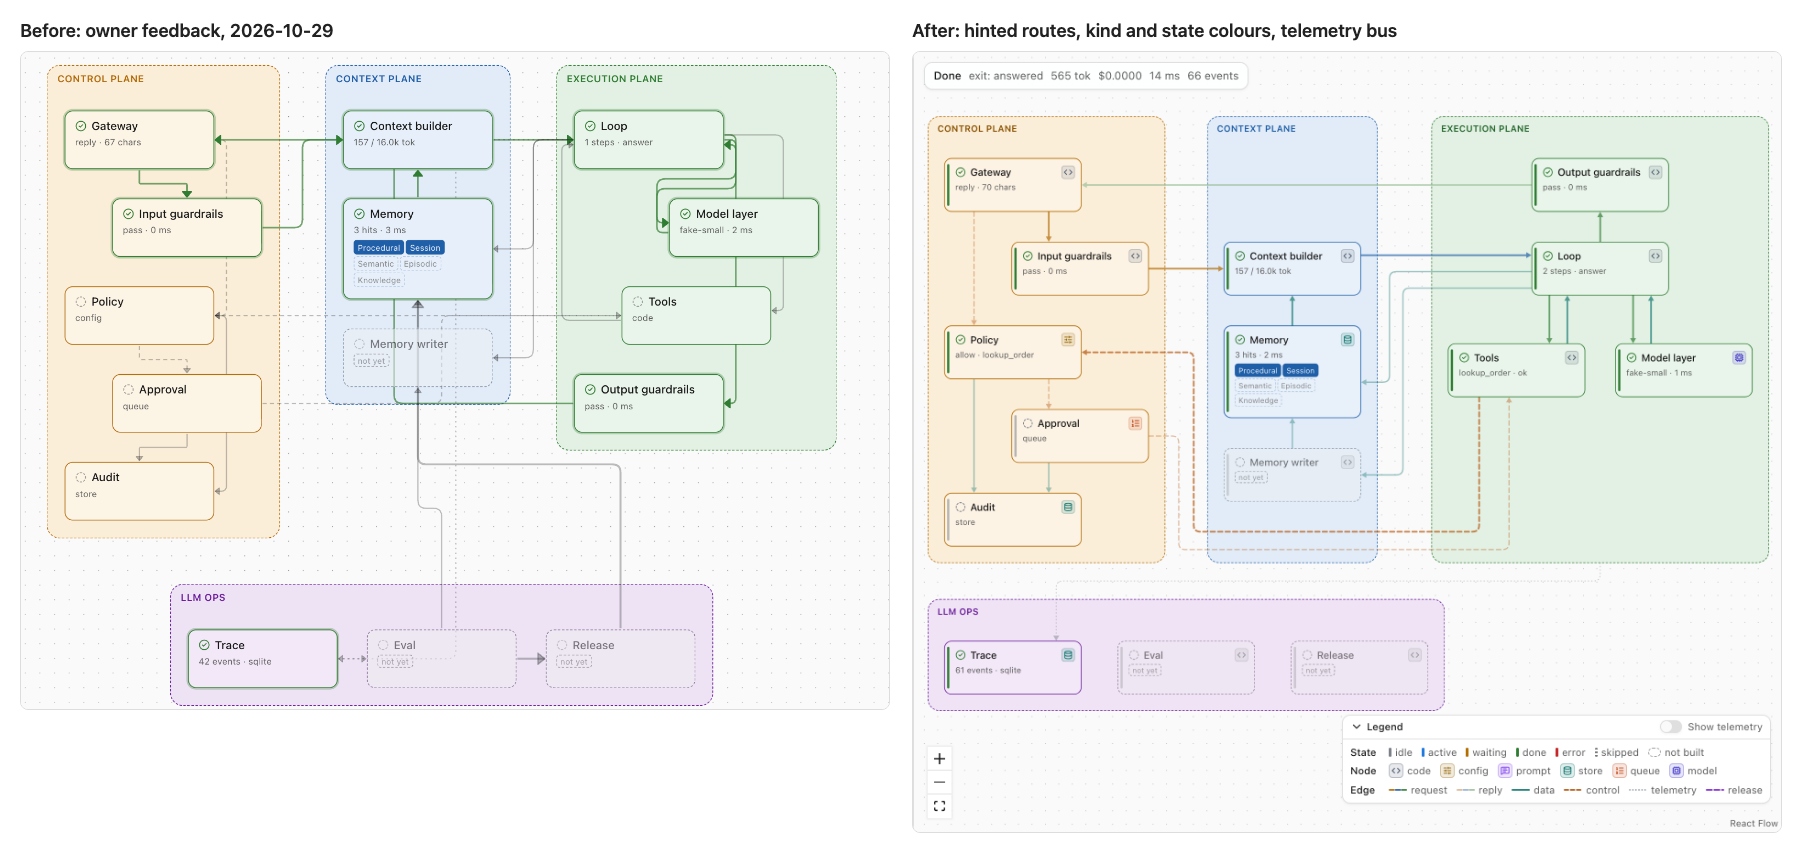
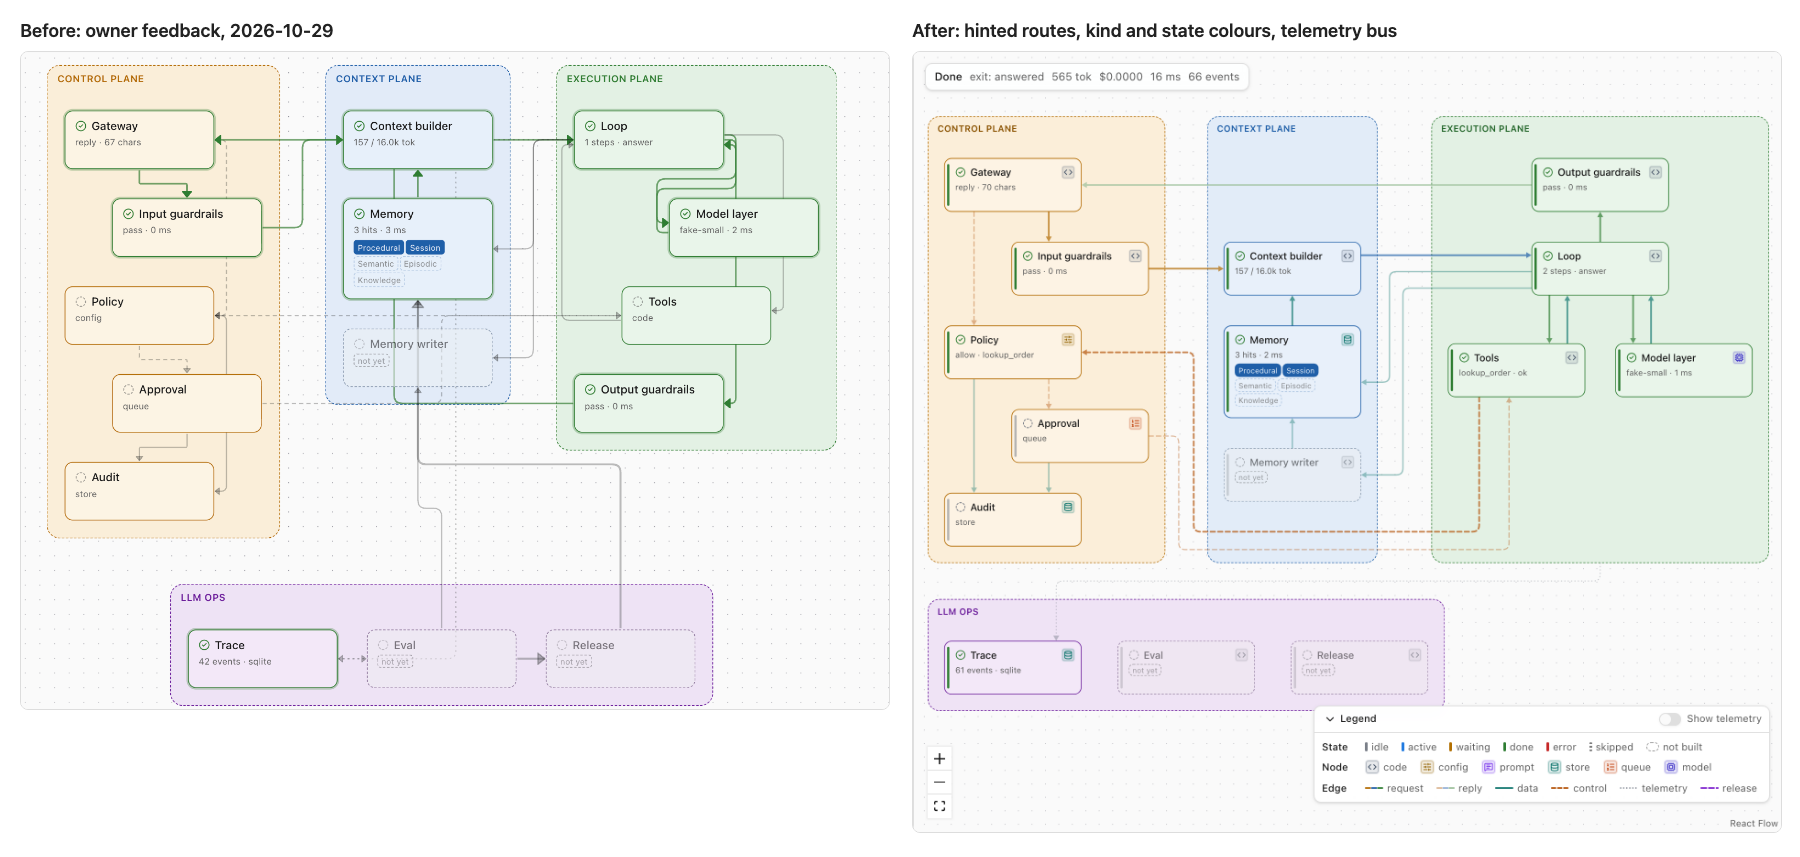
docs: refresh the screenshots for the shadcn UI
Recaptured from the live API with make screenshots. The inspector shot
now jumps to the Loop class so the highlighting shows, and the README
points New session at the session menu.

Changed region(s): [[0.7156, 0.8191, 0.9956, 0.9405], [0.5289, 0.0607, 0.6844, 0.091]]

diff --git a/web/e2e-live/screenshots.spec.ts b/web/e2e-live/screenshots.spec.ts
@@ -86,6 +86,11 @@ test('the inspector code tab', async ({ page }) => {
   const inspector = page.getByTestId('inspector')
   await inspector.getByRole('tab', { name: 'Code' }).click()
   await expect(inspector.getByTestId('code-view')).toContainText('class Loop')
+  // shiki loads on first use; wait for the coloured tokens.
+  await expect(inspector.getByTestId('code-view').locator('[style*="--shiki-light"]').first()).toBeAttached()
+  // Jump past the module docstring to the class itself.
+  await inspector.getByRole('navigation', { name: 'Symbols' }).getByRole('button').filter({ hasText: /^Loop:\d+$/ }).click()
+  await page.waitForTimeout(600)
   await settle(page)
   await page.screenshot({ path: out('inspector-code') })
 })

diff --git a/README.md b/README.md
@@ -177,7 +177,7 @@ answers with a real local model instead.
   fixtures (`tool_call`, `approval_approve`, `approval_deny`, `step_mode`, `cancel_running`,
   `guardrail_block` and more). Fake replies are canned: each fixture scripts the first turn (or
   first few turns) of a session, whatever you type, and a turn past the script fails with
-  `fixture_exhausted`. Press New session (the circular arrow) or pick another fixture to go
+  `fixture_exhausted`. Choose New session in the session menu (the `⋯` button), or pick another fixture, to go
   again.
 - **Approvals.** Pick `approval_approve` or `approval_deny` and ask to cancel an order. Policy
   marks `cancel_order` as destructive, the turn pauses on the Approval node, and a card in the
